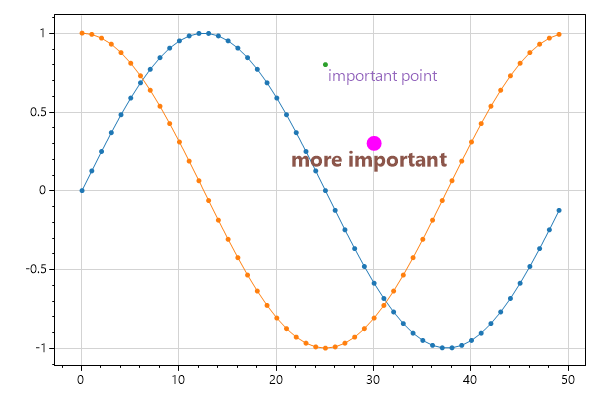
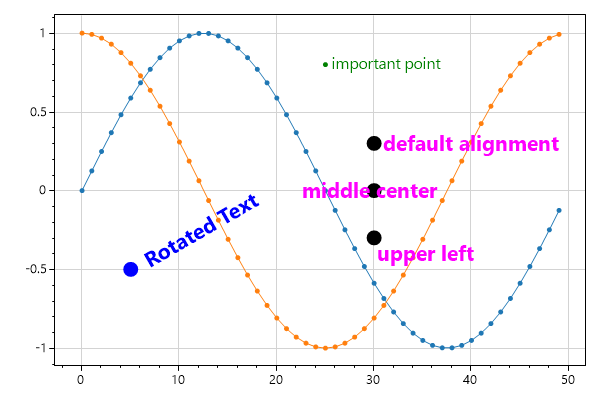
update cookbook

diff --git a/cookbook/cookbook.html b/cookbook/cookbook.html
@@ -225,10 +225,29 @@ double[] dataCos = ScottPlot.DataGen.Cos(pointCount);
 var plt = new ScottPlot.Plot(width, height);
 plt.PlotScatter(dataXs, dataSin);
 plt.PlotScatter(dataXs, dataCos);
-plt.PlotPoint(25, 0.8);
-plt.PlotPoint(30, 0.3, color: Color.Magenta, markerSize: 15);
-plt.PlotText("important point", 25, 0.8);
-plt.PlotText("more important", 30, .3, fontSize: 16, bold: true, alignment: ScottPlot.TextAlignment.upperCenter);
+
+plt.PlotPoint(25, 0.8, color: Color.Green);
+plt.PlotText(" important point", 25, 0.8, 
+    color: Color.Green);
+
+plt.PlotPoint(30, 0.3, color: Color.Black, markerSize: 15);
+plt.PlotText(" default alignment", 30, 0.3, 
+    fontSize: 16, bold: true, color: Color.Magenta);
+
+plt.PlotPoint(30, 0, color: Color.Black, markerSize: 15);
+plt.PlotText("middle center", 30, 0, 
+    fontSize: 16, bold: true, color: Color.Magenta,
+    alignment: ScottPlot.TextAlignment.middleCenter);
+
+plt.PlotPoint(30, -0.3, color: Color.Black, markerSize: 15);
+plt.PlotText("upper left", 30, -0.3,
+    fontSize: 16, bold: true, color: Color.Magenta,
+    alignment: ScottPlot.TextAlignment.upperLeft);
+
+plt.PlotPoint(5, -.5, color: Color.Blue, markerSize: 15);
+plt.PlotText(" Rotated Text", 5, -.5, 
+    fontSize: 16, color: Color.Blue, bold: true, rotation: -30);
+
 plt.Save(600, 400, "08_Plotting_Text.png");
 </pre>
 <h2><br>Clearing Plots</h2>
@@ -1015,6 +1034,49 @@ plt.PlotText("wow.", 10, .6, fontName: "comic sans ms", fontSize: 36, color: Col
 plt.PlotText("NuGet", 32, 0, fontName: "comic sans ms", fontSize: 24, color: Color.Gold, bold: true);
 plt.Legend(fontName: "comic sans ms", fontSize: 16, bold: true, fontColor: Color.DarkBlue);
 plt.Save(600, 400, "72_Custom_Fonts.png");
+</pre>
+<h2><br>Multiplot</h2>
+<img src='images/73_Multiplot.png'>
+<pre style='font-family: monospace; background-color: #DDD; padding: 10px;'>
+Random rand = new Random(09241985);
+var plt = new ScottPlot.MultiPlot(width: 800, height: 600, rows: 2, cols: 2);
+
+plt.subplots[0].Title("Sine");
+plt.subplots[0].PlotSignal(ScottPlot.DataGen.Sin(50));
+
+plt.subplots[1].Title("Cosine");
+plt.subplots[1].PlotSignal(ScottPlot.DataGen.Cos(50));
+
+plt.subplots[2].Title("Random Points");
+plt.subplots[2].PlotSignal(ScottPlot.DataGen.Random(rand, 50));
+
+plt.subplots[3].Title("Random Walk");
+plt.subplots[3].PlotSignal(ScottPlot.DataGen.RandomWalk(rand, 50));
+
+// apply axes and layout from one plot to another one
+plt.subplots[2].MatchAxis(plt.subplots[3]);
+plt.subplots[2].MatchLayout(plt.subplots[3]);
+
+plt.Save(600, 400, "73_Multiplot.png");
+</pre>
+<h2><br>Set Visibility</h2>
+<img src='images/74_Set_Visibility.png'>
+<pre style='font-family: monospace; background-color: #DDD; padding: 10px;'>
+int pointCount = 50;
+double[] dataXs = ScottPlot.DataGen.Consecutive(pointCount);
+double[] dataSin = ScottPlot.DataGen.Sin(pointCount);
+double[] dataCos = ScottPlot.DataGen.Cos(pointCount);
+
+var plt = new ScottPlot.Plot(width, height);
+var plottable1 = plt.PlotScatter(dataXs, dataSin, label: "sin");
+var plottable2 = plt.PlotScatter(dataXs, dataCos, label: "cos");
+plt.Legend();
+
+// after something is plotted you can toggle its visibility
+plottable1.visible = true;
+plottable2.visible = false;
+
+plt.Save(600, 400, "74_Set_Visibility.png");
 </pre>
 </body>
 </html>

diff --git a/cookbook/readme.md b/cookbook/readme.md
@@ -313,10 +313,29 @@ double[] dataCos = ScottPlot.DataGen.Cos(pointCount);
 var plt = new ScottPlot.Plot(width, height);
 plt.PlotScatter(dataXs, dataSin);
 plt.PlotScatter(dataXs, dataCos);
-plt.PlotPoint(25, 0.8);
-plt.PlotPoint(30, 0.3, color: Color.Magenta, markerSize: 15);
-plt.PlotText("important point", 25, 0.8);
-plt.PlotText("more important", 30, .3, fontSize: 16, bold: true, alignment: ScottPlot.TextAlignment.upperCenter);
+
+plt.PlotPoint(25, 0.8, color: Color.Green);
+plt.PlotText(" important point", 25, 0.8, 
+    color: Color.Green);
+
+plt.PlotPoint(30, 0.3, color: Color.Black, markerSize: 15);
+plt.PlotText(" default alignment", 30, 0.3, 
+    fontSize: 16, bold: true, color: Color.Magenta);
+
+plt.PlotPoint(30, 0, color: Color.Black, markerSize: 15);
+plt.PlotText("middle center", 30, 0, 
+    fontSize: 16, bold: true, color: Color.Magenta,
+    alignment: ScottPlot.TextAlignment.middleCenter);
+
+plt.PlotPoint(30, -0.3, color: Color.Black, markerSize: 15);
+plt.PlotText("upper left", 30, -0.3,
+    fontSize: 16, bold: true, color: Color.Magenta,
+    alignment: ScottPlot.TextAlignment.upperLeft);
+
+plt.PlotPoint(5, -.5, color: Color.Blue, markerSize: 15);
+plt.PlotText(" Rotated Text", 5, -.5, 
+    fontSize: 16, color: Color.Blue, bold: true, rotation: -30);
+
 plt.Save(600, 400, "08_Plotting_Text.png");
 ```
 
@@ -1376,5 +1395,60 @@ plt.Save(600, 400, "72_Custom_Fonts.png");
 ```
 
 ![](images/72_Custom_Fonts.png)
+
+
+
+
+## Multiplot
+
+```cs
+Random rand = new Random(09241985);
+var plt = new ScottPlot.MultiPlot(width: 800, height: 600, rows: 2, cols: 2);
+
+plt.subplots[0].Title("Sine");
+plt.subplots[0].PlotSignal(ScottPlot.DataGen.Sin(50));
+
+plt.subplots[1].Title("Cosine");
+plt.subplots[1].PlotSignal(ScottPlot.DataGen.Cos(50));
+
+plt.subplots[2].Title("Random Points");
+plt.subplots[2].PlotSignal(ScottPlot.DataGen.Random(rand, 50));
+
+plt.subplots[3].Title("Random Walk");
+plt.subplots[3].PlotSignal(ScottPlot.DataGen.RandomWalk(rand, 50));
+
+// apply axes and layout from one plot to another one
+plt.subplots[2].MatchAxis(plt.subplots[3]);
+plt.subplots[2].MatchLayout(plt.subplots[3]);
+
+plt.Save(600, 400, "73_Multiplot.png");
+```
+
+![](images/73_Multiplot.png)
+
+
+
+
+## Set Visibility
+
+```cs
+int pointCount = 50;
+double[] dataXs = ScottPlot.DataGen.Consecutive(pointCount);
+double[] dataSin = ScottPlot.DataGen.Sin(pointCount);
+double[] dataCos = ScottPlot.DataGen.Cos(pointCount);
+
+var plt = new ScottPlot.Plot(width, height);
+var plottable1 = plt.PlotScatter(dataXs, dataSin, label: "sin");
+var plottable2 = plt.PlotScatter(dataXs, dataCos, label: "cos");
+plt.Legend();
+
+// after something is plotted you can toggle its visibility
+plottable1.visible = true;
+plottable2.visible = false;
+
+plt.Save(600, 400, "74_Set_Visibility.png");
+```
+
+![](images/74_Set_Visibility.png)
 
 
